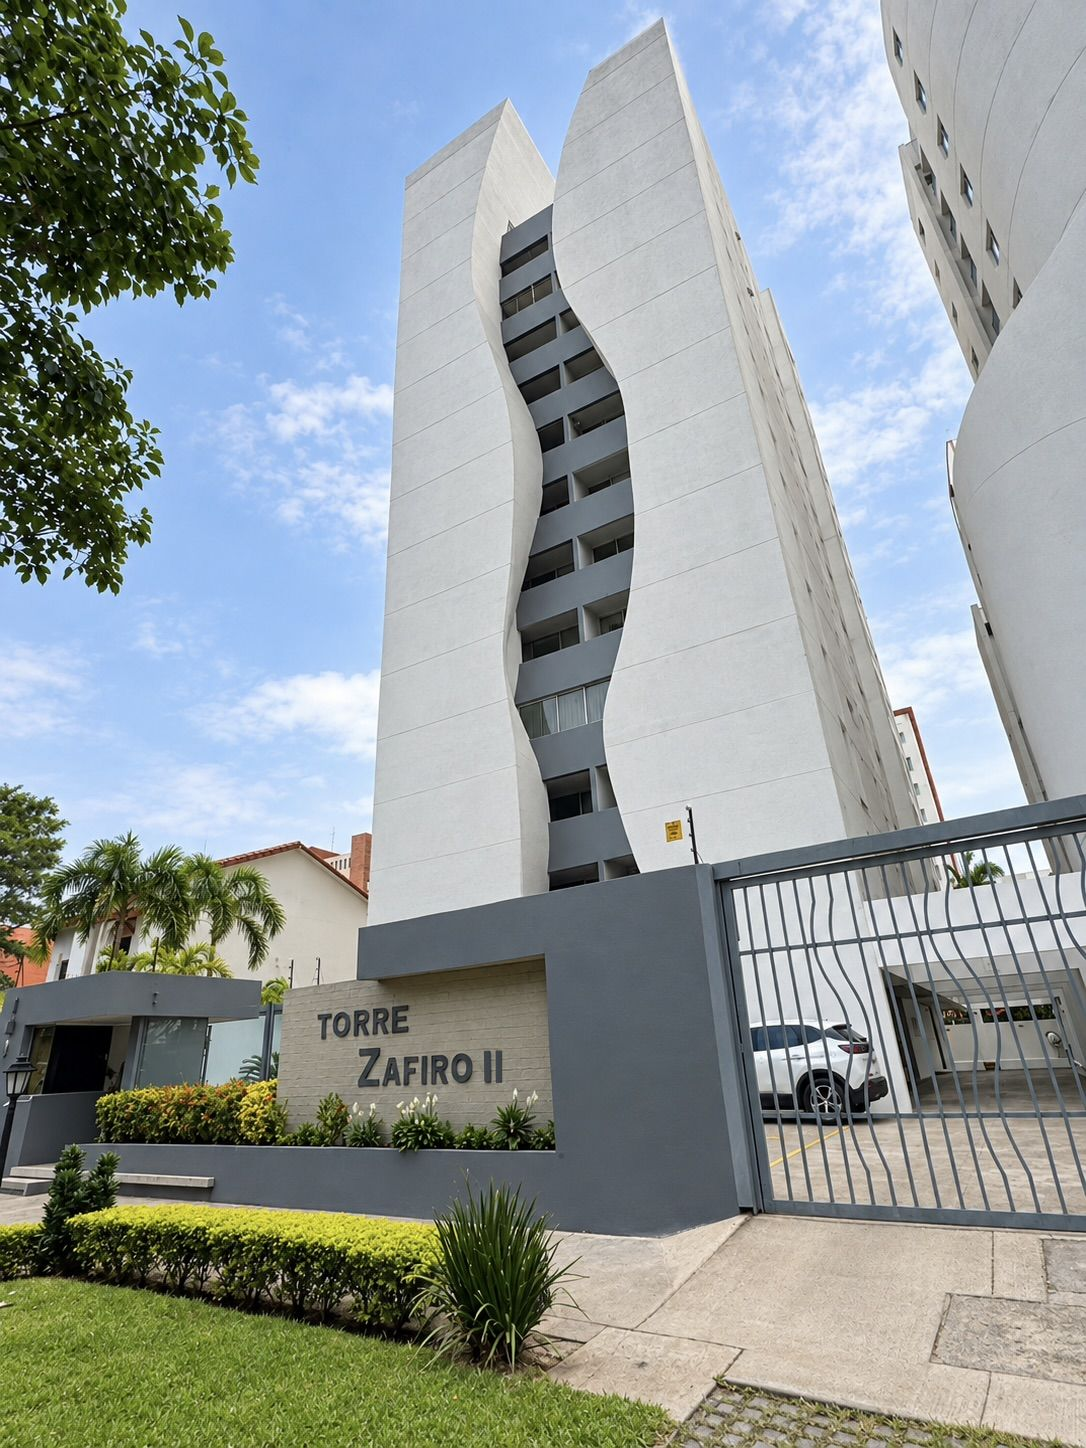
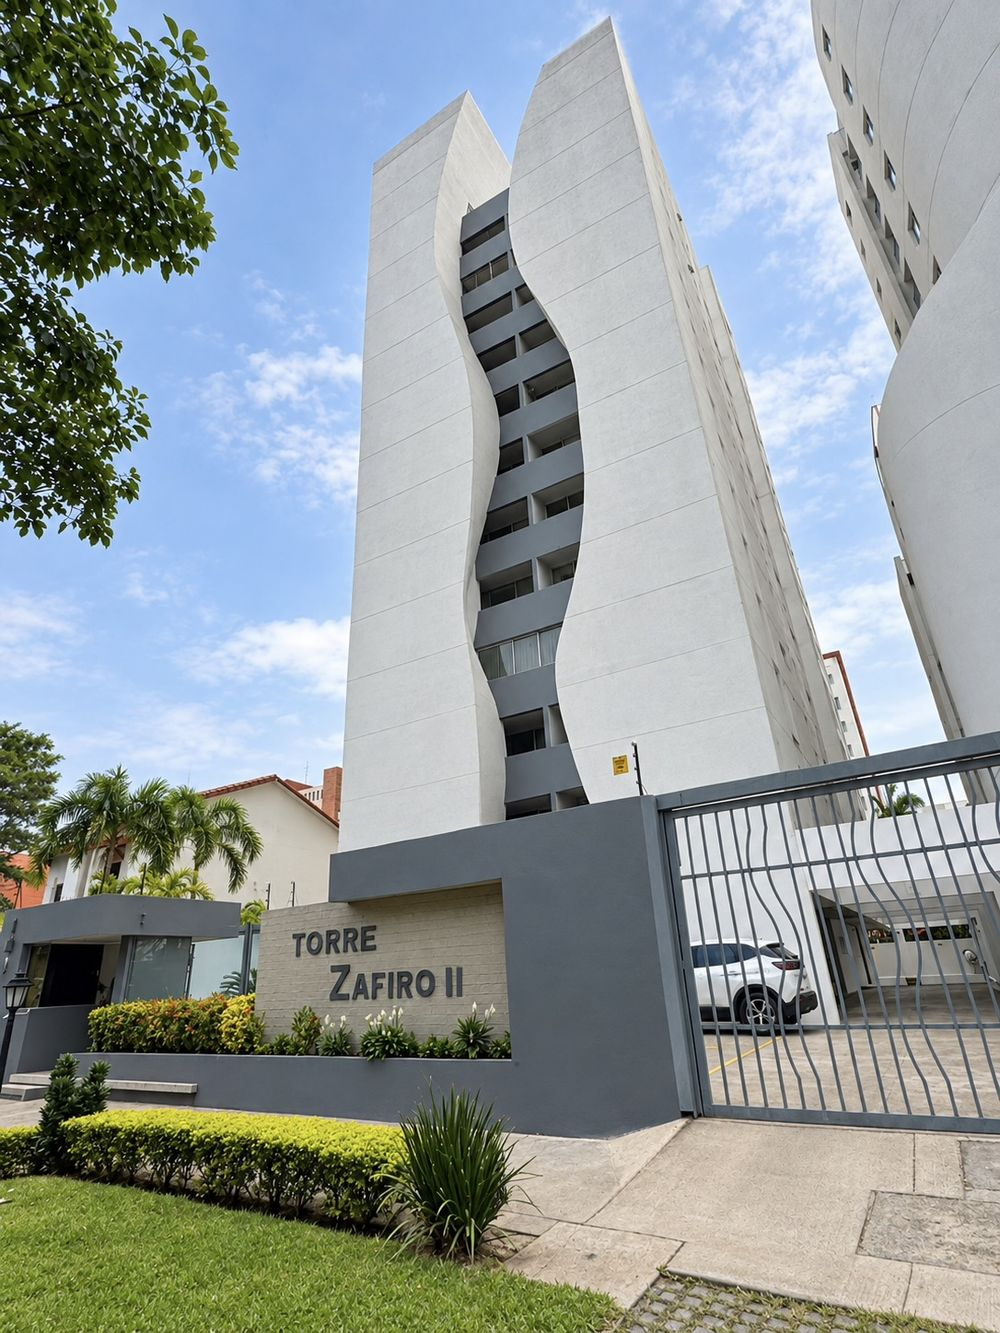
Fotos reales de los 5 edificios, cifras actualizadas, cinta continua y portal sin botones de copiar
- Galería: Torre Zafiro II, Rise 1, San Nicolás Residences, Hub Diamante Norte y Limco II
- Cifras: +6 años, +400 familias, +5 edificios, soporte 24/7
- Se quita la etiqueta flotante 'Asistencia 24/7'
- La cinta de servicios ya no se detiene al pasar el mouse o al desplazarse
- Portal: sin botones 'Copiar' en número de cuenta y NIT

Claude-Session: https://claude.ai/code/session_01YPiVLhqYE2GDo1jMJwqRo4

Changed region(s): [[0.0, 0.3691, 0.031, 0.3998]]

diff --git a/index.html b/index.html
@@ -174,18 +174,13 @@ main.leaving{opacity:0;transform:translateY(-10px);filter:blur(6px)}
 .glass.g1 img{width:44px;height:44px;border-radius:12px;object-fit:cover}
 .glass.g1 b{display:block;font-weight:500;color:var(--navy);line-height:1.3}
 .glass.g1 span{font-size:13px;color:var(--muted)}
-.glass.g2{right:16px;top:16px;display:flex;align-items:center;gap:10px;font-size:14px;font-weight:500;color:var(--navy);animation:bob 5s ease-in-out infinite}
-@keyframes bob{50%{transform:translateY(-6px)}}
-.live{width:10px;height:10px;border-radius:50%;background:var(--ok);box-shadow:0 0 0 0 rgba(31,138,91,.6);animation:pulse 2s infinite}
-@keyframes pulse{70%{box-shadow:0 0 0 10px rgba(31,138,91,0)}100%{box-shadow:0 0 0 0 rgba(31,138,91,0)}}
 
 /* cinta de servicios */
 .marquee{overflow:hidden;padding-block:28px;border-bottom:1px solid var(--line);mask-image:linear-gradient(90deg,transparent,#000 8%,#000 92%,transparent);-webkit-mask-image:linear-gradient(90deg,transparent,#000 8%,#000 92%,transparent)}
-.marquee .track{display:flex;gap:44px;width:max-content;animation:slide 40s linear infinite}
-.marquee:hover .track{animation-play-state:paused}
-.marquee span{display:flex;align-items:center;gap:44px;font-size:clamp(20px,2.6vw,32px);font-weight:300;color:var(--navy);white-space:nowrap}
+.marquee .track{display:flex;width:max-content;animation:slide 40s linear infinite;will-change:transform;backface-visibility:hidden}
+.marquee span{display:flex;align-items:center;gap:44px;padding-right:44px;font-size:clamp(20px,2.6vw,32px);font-weight:300;color:var(--navy);white-space:nowrap}
 .marquee span::after{content:"";width:9px;height:9px;border-radius:50%;background:var(--brass)}
-@keyframes slide{to{transform:translateX(-50%)}}
+@keyframes slide{from{transform:translate3d(0,0,0)}to{transform:translate3d(-50%,0,0)}}
 
 /* por qué Bramar */
 .why{display:grid;grid-template-columns:1fr 1.1fr;gap:clamp(32px,5vw,80px);align-items:stretch}
@@ -217,7 +212,7 @@ main.leaving{opacity:0;transform:translateY(-10px);filter:blur(6px)}
 .n{position:relative;min-width:0}
 .n + .n{border-left:1px solid rgba(255,255,255,.14);padding-left:24px}
 .n b{display:block;font-size:clamp(44px,5.4vw,76px);font-weight:300;line-height:1;letter-spacing:-.03em;font-variant-numeric:tabular-nums}
-.n b small{font-size:.5em;color:var(--brass-soft)}
+.n b small{font-size:.5em;color:var(--brass-soft);vertical-align:.45em;margin-right:2px}
 .n span{display:block;margin-top:12px;font-size:14px;color:rgba(255,255,255,.75)}
 
 /* llamada a la acción */
@@ -414,7 +409,6 @@ footer{background:var(--navy-deep);color:rgba(255,255,255,.75);margin-top:clamp(
   .testi{grid-template-columns:1fr}
   .testi .qmark{font-size:90px;height:50px}
   .brand span{display:none}
-  .glass.g2{display:none}
   .hero-photo{min-height:340px}
   /* tarjetas de servicio compactas en una columna */
   .svc{grid-template-columns:1fr;gap:12px}
@@ -518,8 +512,7 @@ footer{background:var(--navy-deep);color:rgba(255,255,255,.75);margin-top:clamp(
         </div>
       </div>
       <div class="hero-photo reveal-img">
-        <img src="img/torre-zafiro.jpg" alt="Torre Zafiro II, edificio administrado por Bramar Group" width="1086" height="1448" fetchpriority="high">
-        <div class="glass g2"><span class="live" aria-hidden="true"></span>Asistencia 24/7</div>
+        <img src="img/torre-zafiro.jpg" alt="Torre Zafiro II, edificio administrado por Bramar Group" width="1000" height="1333" fetchpriority="high">
         <div class="glass g1"><img src="img/torre-zafiro-mini.jpg" alt="" width="120" height="160"><div><b>Torre Zafiro II</b><span>Gestionado por Bramar</span></div></div>
       </div>
     </div>
@@ -544,9 +537,9 @@ footer{background:var(--navy-deep);color:rgba(255,255,255,.75);margin-top:clamp(
         </div>
         <div class="why-view" id="why-view" role="tabpanel" aria-labelledby="w0">
           <img class="on" src="img/oficina.jpg" alt="" width="1536" height="1024" loading="lazy" decoding="async">
-          <img src="img/edificio-fachada.jpg" alt="" width="720" height="960" loading="lazy" decoding="async">
-          <img src="img/edificio-balcones.jpg" alt="" width="671" height="896" loading="lazy" decoding="async">
-          <img src="img/edificio-palmeras.jpg" alt="" width="974" height="731" loading="lazy" decoding="async">
+          <img src="img/san-nicolas.jpg" alt="" width="985" height="1230" loading="lazy" decoding="async">
+          <img src="img/rise-1.jpg" alt="" width="1000" height="1333" loading="lazy" decoding="async">
+          <img src="img/hub-diamante-norte.jpg" alt="" width="1000" height="1155" loading="lazy" decoding="async">
           <div class="why-big" id="why-big"><b>0%</b><span>de opacidad en las cuentas</span></div>
         </div>
       </div>
@@ -556,10 +549,10 @@ footer{background:var(--navy-deep);color:rgba(255,255,255,.75);margin-top:clamp(
   <section class="tight">
     <div class="wrap">
       <div class="numbers" data-reveal>
-        <div class="n"><b data-to="10">10<small>+</small></b><span>años administrando</span></div>
-        <div class="n"><b data-to="350">350<small>+</small></b><span>familias conformes</span></div>
-        <div class="n"><b data-to="4">4<small>+</small></b><span>edificios gestionados</span></div>
-        <div class="n"><b>24/7</b><span>atención de emergencias</span></div>
+        <div class="n"><b data-to="6"><small>+</small>6</b><span>años administrando</span></div>
+        <div class="n"><b data-to="400"><small>+</small>400</b><span>familias conformes</span></div>
+        <div class="n"><b data-to="5"><small>+</small>5</b><span>edificios gestionados</span></div>
+        <div class="n"><b>24/7</b><span>soporte</span></div>
       </div>
     </div>
   </section>
@@ -568,7 +561,7 @@ footer{background:var(--navy-deep);color:rgba(255,255,255,.75);margin-top:clamp(
     <div class="wrap">
       <div class="cta" data-reveal>
         <div class="tx"><span class="tag">Propuesta sin costo</span><h2 class="h2">¿Su edificio necesita una <b>nueva administración</b>?</h2><div><a class="btn navy" href="#contacto" data-go="contacto">Solicitar visita <svg aria-hidden="true"><use href="#i-arrow"/></svg></a></div></div>
-        <div class="ph"><img src="img/edificio-palmeras.jpg" alt="Edificio residencial administrado por Bramar" width="974" height="731" loading="lazy" decoding="async"></div>
+        <div class="ph"><img src="img/limco-ii.jpg" alt="Edificio Limco II, administrado por Bramar" width="1200" height="900" loading="lazy" decoding="async"></div>
       </div>
     </div>
   </section>
@@ -577,7 +570,7 @@ footer{background:var(--navy-deep);color:rgba(255,255,255,.75);margin-top:clamp(
 <!-- ============================ 02 · NOSOTROS ============================ -->
 <div class="page" id="nosotros" data-page data-title="Nosotros" hidden>
   <div class="p-head"><div class="box reveal-img"><img src="img/oficina.jpg" alt="Oficinas de Bramar Group" width="1536" height="1024" loading="lazy" decoding="async">
-    <div class="in"><div class="crumb rise"><a href="#inicio" data-go="inicio">Inicio</a><span aria-hidden="true">/</span><b>Nosotros</b></div><h1 class="rise d1" tabindex="-1">Innovación y <b>experiencia.</b></h1><p class="rise d2">Más de 10 años administrando edificios y condominios en Santa Cruz.</p></div></div></div>
+    <div class="in"><div class="crumb rise"><a href="#inicio" data-go="inicio">Inicio</a><span aria-hidden="true">/</span><b>Nosotros</b></div><h1 class="rise d1" tabindex="-1">Innovación y <b>experiencia.</b></h1><p class="rise d2">Más de 6 años administrando edificios y condominios en Santa Cruz.</p></div></div></div>
   <section>
     <div class="wrap about">
       <div data-reveal><span class="tag">Quiénes somos</span><p class="big">Una empresa dedicada a la administración integral de edificios y condominios, con una estructura sólida para el mercado inmobiliario moderno.</p></div>
@@ -616,7 +609,7 @@ footer{background:var(--navy-deep);color:rgba(255,255,255,.75);margin-top:clamp(
 
 <!-- ============================ 03 · SERVICIOS ============================ -->
 <div class="page" id="servicios" data-page data-title="Servicios" hidden>
-  <div class="p-head"><div class="box reveal-img"><img src="img/edificio-fachada.jpg" alt="Fachada de edificio administrado por Bramar" width="720" height="960" loading="lazy" decoding="async" style="object-position:center 30%">
+  <div class="p-head"><div class="box reveal-img"><img src="img/san-nicolas.jpg" alt="San Nicolás Residences, administrado por Bramar" width="985" height="1230" loading="lazy" decoding="async" style="object-position:center 35%">
     <div class="in"><div class="crumb rise"><a href="#inicio" data-go="inicio">Inicio</a><span aria-hidden="true">/</span><b>Servicios</b></div><h1 class="rise d1" tabindex="-1">Todo su edificio, <b>una sola gestión.</b></h1><p class="rise d2">Nuestro equipo y empresas aliadas que seleccionamos y supervisamos.</p></div></div></div>
   <section>
     <div class="wrap">
@@ -641,17 +634,18 @@ footer{background:var(--navy-deep);color:rgba(255,255,255,.75);margin-top:clamp(
 
 <!-- ============================ 04 · EDIFICIOS ============================ -->
 <div class="page" id="edificios" data-page data-title="Edificios" hidden>
-  <div class="p-head"><div class="box reveal-img"><img src="img/edificio-palmeras.jpg" alt="Edificio residencial administrado por Bramar" width="974" height="731" loading="lazy" decoding="async">
+  <div class="p-head"><div class="box reveal-img"><img src="img/hub-diamante-norte.jpg" alt="Hub Diamante Norte, administrado por Bramar" width="1000" height="1155" loading="lazy" decoding="async" style="object-position:center 30%">
     <div class="in"><div class="crumb rise"><a href="#inicio" data-go="inicio">Inicio</a><span aria-hidden="true">/</span><b>Edificios</b></div><h1 class="rise d1" tabindex="-1">Impecables y <b>operativos.</b></h1><p class="rise d2">Edificios que hoy confían en nuestra gestión.</p></div></div></div>
   <section>
     <div class="wrap">
       <div class="head" data-reveal><div><span class="tag">Portafolio</span><h2 class="h2">Edificios <b>gestionados.</b></h2></div>
         <div class="rail-ctrl"><button class="round" type="button" id="r-prev" aria-label="Ver edificio anterior" aria-controls="rail"><svg aria-hidden="true"><use href="#i-arrow-l"/></svg></button><button class="round" type="button" id="r-next" aria-label="Ver edificio siguiente" aria-controls="rail"><svg aria-hidden="true"><use href="#i-arrow"/></svg></button></div></div>
       <div class="rail" id="rail" tabindex="0" aria-label="Galería de edificios gestionados (use las flechas del teclado para desplazarse)" data-reveal>
-        <figure class="b-card"><img src="img/torre-zafiro.jpg" alt="Torre Zafiro II" width="1086" height="1448" loading="lazy" decoding="async" draggable="false"><figcaption><div><h3>Torre Zafiro II</h3><span>Santa Cruz</span></div><span class="chip">Gestionado</span></figcaption></figure>
-        <figure class="b-card"><img src="img/edificio-balcones.jpg" alt="Edificio residencial con balcones" width="671" height="896" loading="lazy" decoding="async" draggable="false"><figcaption><div><h3>Edificio gestionado</h3><span>Santa Cruz</span></div><span class="chip">Gestionado</span></figcaption></figure>
-        <figure class="b-card"><img src="img/edificio-fachada.jpg" alt="Edificio con fachada blanca" width="720" height="960" loading="lazy" decoding="async" draggable="false"><figcaption><div><h3>Edificio gestionado</h3><span>Santa Cruz</span></div><span class="chip">Gestionado</span></figcaption></figure>
-        <figure class="b-card"><img src="img/edificio-palmeras.jpg" alt="Edificio rodeado de palmeras" width="974" height="731" loading="lazy" decoding="async" draggable="false" style="object-position:30% center"><figcaption><div><h3>Edificio gestionado</h3><span>Santa Cruz</span></div><span class="chip">Gestionado</span></figcaption></figure>
+        <figure class="b-card"><img src="img/torre-zafiro.jpg" alt="Torre Zafiro II" width="1000" height="1333" loading="lazy" decoding="async" draggable="false"><figcaption><div><h3>Torre Zafiro II</h3><span>Santa Cruz</span></div></figcaption></figure>
+        <figure class="b-card"><img src="img/rise-1.jpg" alt="Edificio Rise 1" width="1000" height="1333" loading="lazy" decoding="async" draggable="false" style="object-position:center 30%"><figcaption><div><h3>Rise 1</h3><span>Santa Cruz</span></div></figcaption></figure>
+        <figure class="b-card"><img src="img/san-nicolas.jpg" alt="San Nicolás Residences" width="985" height="1230" loading="lazy" decoding="async" draggable="false"><figcaption><div><h3>San Nicolás Residences</h3><span>Santa Cruz</span></div></figcaption></figure>
+        <figure class="b-card"><img src="img/hub-diamante-norte.jpg" alt="Hub Diamante Norte" width="1000" height="1155" loading="lazy" decoding="async" draggable="false"><figcaption><div><h3>Hub Diamante Norte</h3><span>Santa Cruz</span></div></figcaption></figure>
+        <figure class="b-card"><img src="img/limco-ii.jpg" alt="Edificio Limco II" width="1200" height="900" loading="lazy" decoding="async" draggable="false" style="object-position:45% center"><figcaption><div><h3>Limco II</h3><span>Santa Cruz</span></div></figcaption></figure>
       </div>
       <div class="progress" aria-hidden="true"><i id="r-bar"></i></div>
     </div>
@@ -673,7 +667,7 @@ footer{background:var(--navy-deep);color:rgba(255,255,255,.75);margin-top:clamp(
     <div class="wrap">
       <div class="cta" data-reveal>
         <div class="tx"><span class="tag">Su edificio puede ser el próximo</span><h2 class="h2">Conozcamos <b>su edificio.</b></h2><div><a class="btn navy" href="#contacto" data-go="contacto">Solicitar visita <svg aria-hidden="true"><use href="#i-arrow"/></svg></a></div></div>
-        <div class="ph"><img src="img/edificio-balcones.jpg" alt="" width="671" height="896" loading="lazy" decoding="async"></div>
+        <div class="ph"><img src="img/rise-1.jpg" alt="" width="1000" height="1333" loading="lazy" decoding="async" style="object-position:center 30%"></div>
       </div>
     </div>
   </section>
@@ -843,14 +837,14 @@ const SITE = {
     if(reduce) return;
     $$('#inicio [data-to]').forEach(el=>{
       const to=+el.dataset.to, sm=el.querySelector('small').outerHTML;
-      const run=()=>{const t0=performance.now();(function step(t){const k=Math.min((t-t0)/1600,1);el.innerHTML=Math.round(to*(1-Math.pow(1-k,4)))+sm;if(k<1)requestAnimationFrame(step);})(t0);};
+      const run=()=>{const t0=performance.now();(function step(t){const k=Math.min((t-t0)/1600,1);el.innerHTML=sm+Math.round(to*(1-Math.pow(1-k,4)));if(k<1)requestAnimationFrame(step);})(t0);};
       if(!io) return run();
       const o=new IntersectionObserver(es=>{ if(es[0].isIntersecting){o.disconnect();run();} },{threshold:.5}); o.observe(el);
     });
   }
 
   /* ---------- 7. Por qué Bramar (pestañas con rotación) ---------- */
-  const big=[['0%','de opacidad en las cuentas'],['1','solo responsable para todo'],['24/7','atención de emergencias'],['+valor','para su propiedad']];
+  const big=[['0%','de opacidad en las cuentas'],['1','solo responsable para todo'],['24/7','de soporte'],['+valor','para su propiedad']];
   const items=$$('.why-item'), imgs=$$('#why-view img'), bigEl=$('#why-big'), whyBox=$('#why');
   let wi=0, wt=null, whyPaused=false;
   function setWhy(i,user){

diff --git a/copropietarios.html b/copropietarios.html
@@ -488,7 +488,7 @@ const PORTAL = {
     if(debt>0.009) $('#up-amount').value=debt.toFixed(2);
     // banco
     const rows=[['Banco',E.banco],['Titular',E.titular],['N.º de cuenta',E.cuenta,true],['Tipo',E.tipo_cuenta],['Moneda',E.moneda_cuenta||E.moneda],['NIT / CI',E.nit,true]].filter(r=>r[1]);
-    $('#p-bank').innerHTML=rows.length?rows.map(([k,v,cp])=>`<div class="kv"><dt>${k}</dt><dd>${esc(v)}${cp?` <button type="button" class="copy" data-copy="${esc(v)}"><svg aria-hidden="true"><use href="#i-copy"/></svg>Copiar</button>`:''}</dd></div>`).join('')
+    $('#p-bank').innerHTML=rows.length?rows.map(([k,v])=>`<div class="kv"><dt>${k}</dt><dd>${esc(v)}</dd></div>`).join('')
       :'<p class="muted" style="padding:12px 0">Consulte los datos de pago con la administración.</p>';
     const qr=U.qr||E.qr, box=$('#p-qr'), dl=$('#p-qr-dl');
     if(qr){ box.innerHTML=`<img src="${esc(qr)}" alt="Código QR de pago de ${esc(E.nombre)}">`; dl.href=qr; dl.hidden=false;
